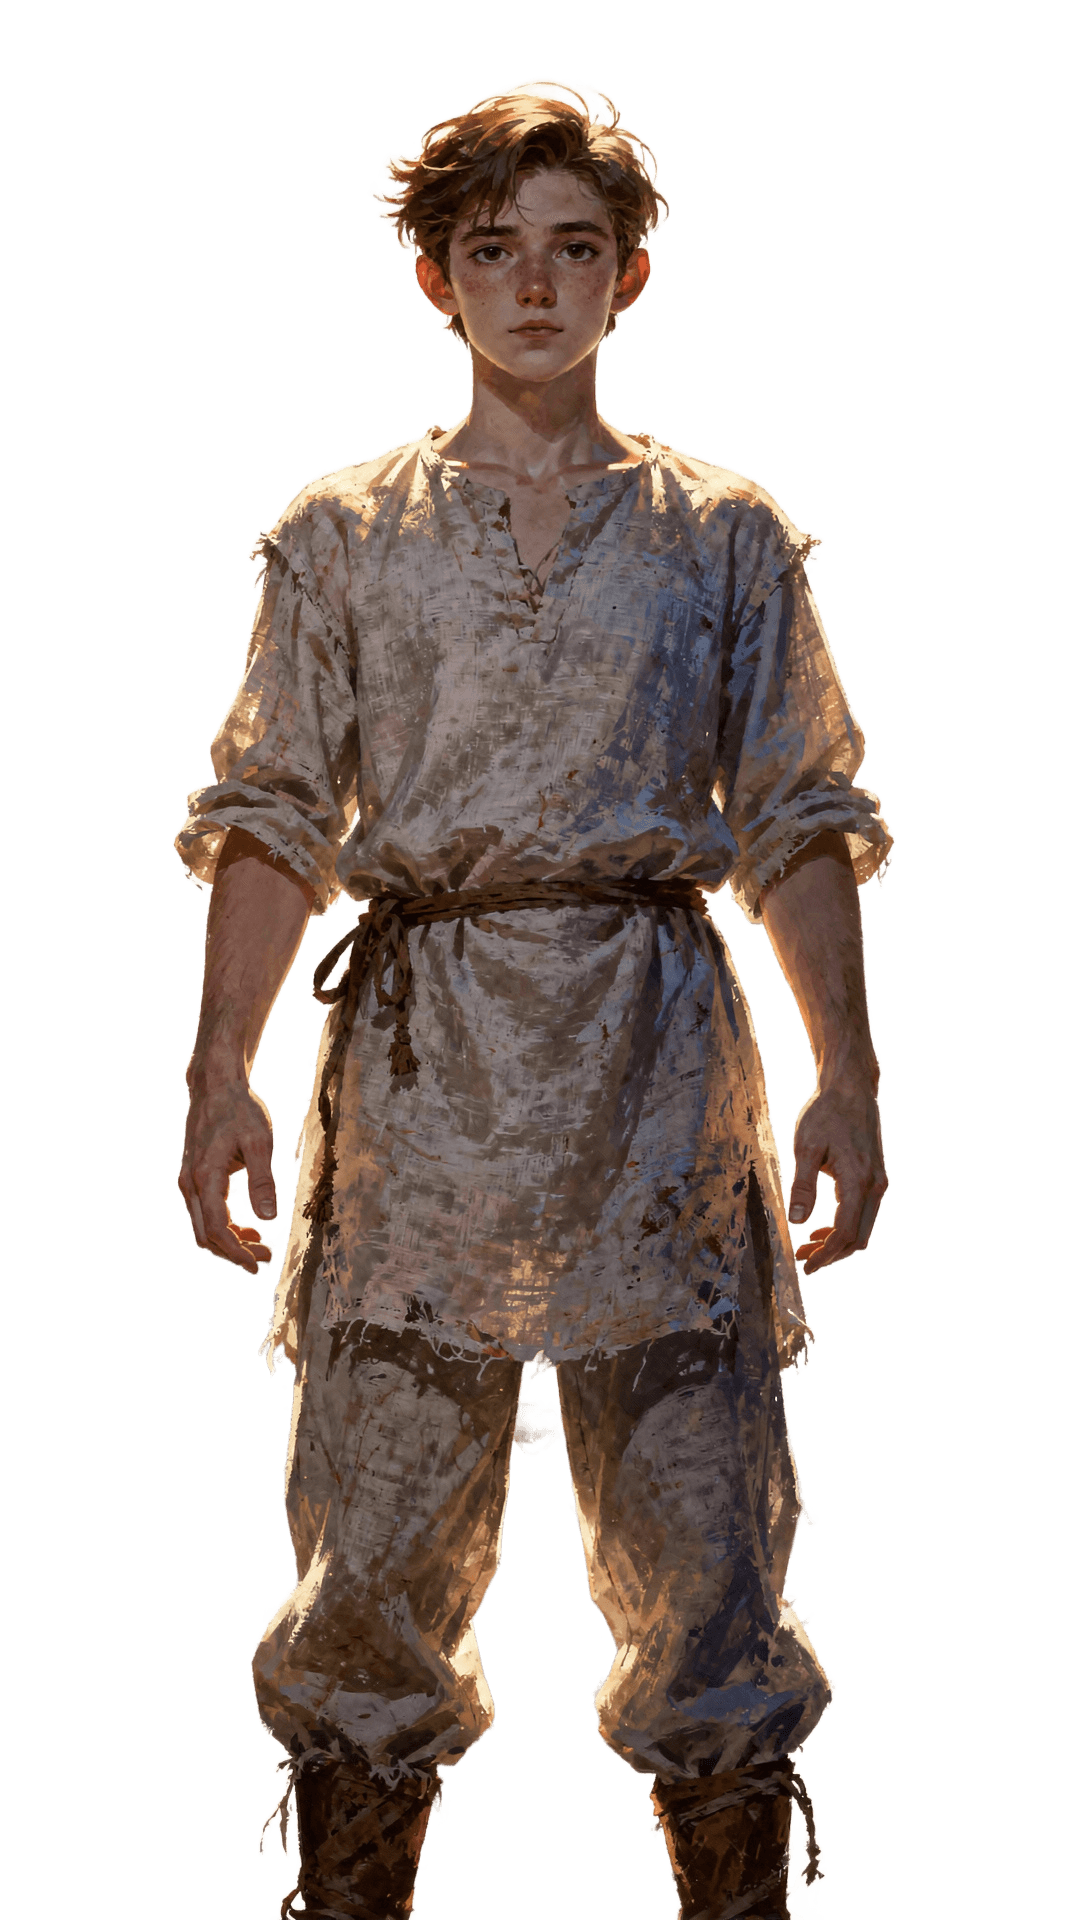
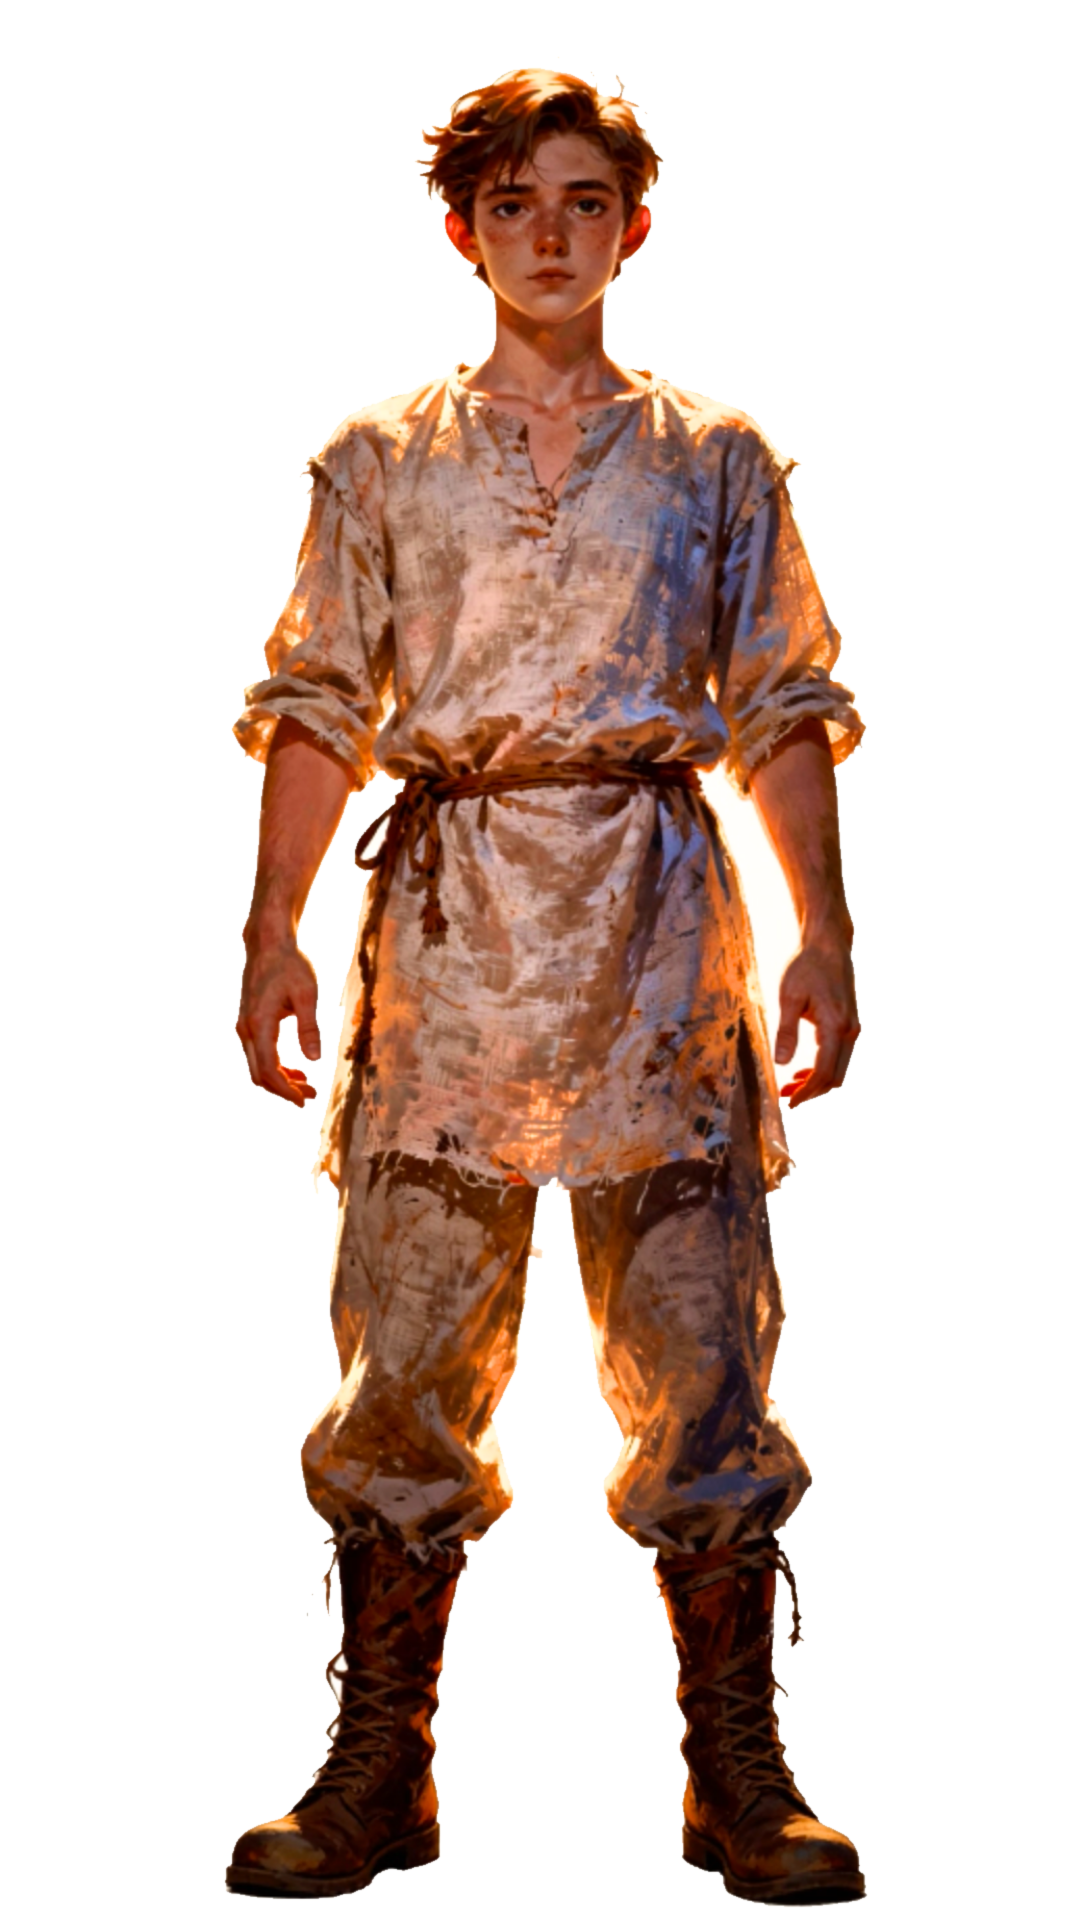
fix(armadura): guerrero completo con pies + calzado/yelmo alineados
El arte del héroe estaba recortado al tobillo (sin pies), así que el
calzado flotaba en las espinillas. Se reemplaza heroe.png por una figura
completa con botas plantadas y se reubican las piezas:
- calzado: baja a nivel de piso (suelas ~y772) sobre los pies reales
- yelmo: enmarca la cara (x120 y-2) en vez de flotar sobre la cabeza

diff --git a/public/herramientas/armadura/armor-figure.js b/public/herramientas/armadura/armor-figure.js
@@ -75,8 +75,10 @@
   }
 
   function pieceCalzado() {
+    // Botas blindadas: bajadas hasta los pies (suelas ~y772) para que calcen a
+    // nivel del piso sobre las piernas del héroe, no flotando en las espinillas.
     return piece('calzado',
-      `<image href="${IMG}calzado.png" x="83" y="520" width="284" height="250"
+      `<image href="${IMG}calzado.png" x="87" y="543" width="274" height="274"
               preserveAspectRatio="xMidYMid meet"/>`
     );
   }
@@ -90,7 +92,7 @@
 
   function pieceYelmo() {
     return piece('yelmo',
-      `<image href="${IMG}yelmo.png" x="115" y="-15" width="210" height="185"
+      `<image href="${IMG}yelmo.png" x="120" y="-2" width="210" height="185"
               preserveAspectRatio="xMidYMid meet"/>`
     );
   }
